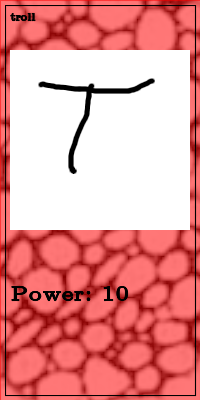
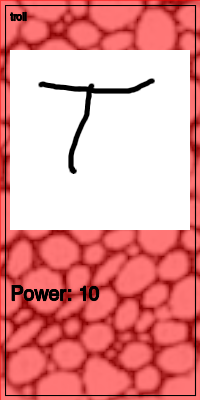
Update example

Changed region(s): [[0.03, 0.69, 0.66, 0.75], [0.03, 0.03, 0.18, 0.06]]

diff --git a/README.md b/README.md
@@ -77,6 +77,8 @@ Params is a utility for turning a csv file into a Quickdeck script of variable a
 
 # Using them together
 
+_All of the files for this example are included in the repo in `example/`. If you want to follow along, run `make build` at the base of the repo, cd to the example folder and do a `make clean`._
+
 Say we have a csv `stats.csv`
 
 ```
@@ -94,33 +96,33 @@ and we run `params stats.csv`, we get three files:
 We can write a script `make_monsters.qd`:
 
 ```
-font="/usr/share/texmf/fonts/opentype/public/lm/lmroman5-regular.otf";
 new(200,400);
-image("/home/sam/pictures/background.png", 0, 0, 200, 400);
+image("resources/background.png", 0, 0, 200, 400);
 rect(true, 0, 0, 200, 400, 1, backgroundColour+"88");
 rect(false, 5, 5, 190, 390, 1, "#000000");
-text(title, font, 10, 10, 20, "#000000");
-image("/home/sam/pictures/"+title+".png", 10, 50, 180, 180);
-text("Power: "+power, font, 20, 10, 300, "#000000");
+text(title, "", 10, 10, 20, "#000000");
+image("resources/"+title+".png", 10, 50, 180, 180);
+text("Power: "+power, "", 20, 10, 300, "#000000");
 save(title + ".png");
 ```
 
 And a Makefile:
 
 ```
-CARDS = goblin.png troll.png ogre.png                                                                                               
+CARDS = goblin.png troll.png ogre.png
 SCRIPTS = $(CARDS:.png=.qd)
+DEPS = $(CARDS:.png=.png.d)
 
 .PHONY: all
 all: $(CARDS)
 
--include $(CARDS:.png=.png.d)
+-include $(DEPS)
 
 %.png: %.qd make_monsters.qd
-        ./quickdeck $< make_monsters.qd
+        ../quickdeck $< make_monsters.qd
 
 $(SCRIPTS): stats.csv
-        ./params stats.csv
+        ../params stats.csv
 ```
 
 Now `make all` produces the following images:
